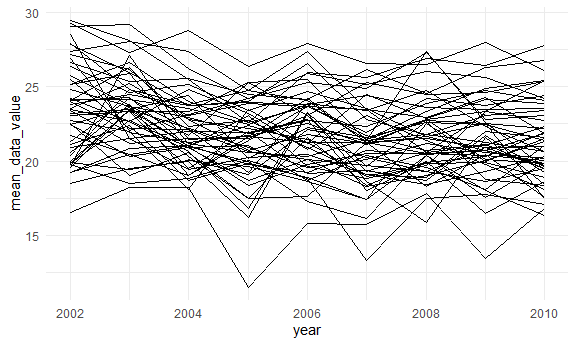
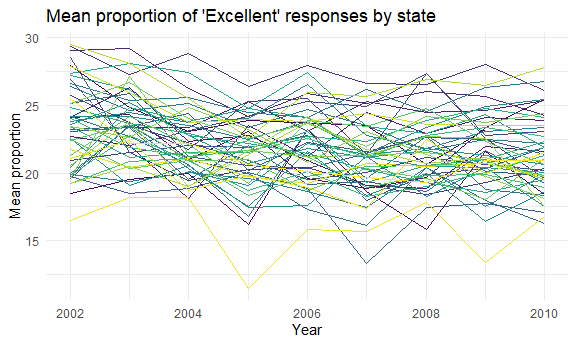
describing problem 2 data and results

diff --git a/p8105_hw3_sns2189.md b/p8105_hw3_sns2189.md
@@ -225,7 +225,7 @@ Lady Apples.
 
 ## Problem 2
 
-Cleaning data
+**Tidying the data:**
 
 ``` r
 brfss_smart2010_tidy <-
@@ -244,8 +244,8 @@ brfss_smart2010 %>%
   ) 
 ```
 
-In 2002, which states were observed at 7 or more locations? What about
-in 2010?
+**Showing which states were observed at 7 or more locations in 2002 and
+2010:**
 
 ``` r
 brfss_smart2010_tidy %>% 
@@ -253,18 +253,18 @@ brfss_smart2010_tidy %>%
   select(locationabbr, locationdesc) %>% 
   group_by(locationabbr) %>% 
   summarize(county_ct = n_distinct(locationdesc)) %>% 
-  filter(county_ct >= 7)
+  filter(county_ct >= 7) %>% 
+  knitr::kable(digits = 0)
 ```
 
-    ## # A tibble: 6 x 2
-    ##   locationabbr county_ct
-    ##   <chr>            <int>
-    ## 1 CT                   7
-    ## 2 FL                   7
-    ## 3 MA                   8
-    ## 4 NC                   7
-    ## 5 NJ                   8
-    ## 6 PA                  10
+| locationabbr | county\_ct |
+|:-------------|-----------:|
+| CT           |          7 |
+| FL           |          7 |
+| MA           |          8 |
+| NC           |          7 |
+| NJ           |          8 |
+| PA           |         10 |
 
 ``` r
 brfss_smart2010_tidy %>% 
@@ -272,48 +272,65 @@ brfss_smart2010_tidy %>%
   select(locationabbr, locationdesc) %>% 
   group_by(locationabbr) %>% 
   summarize(county_ct = n_distinct(locationdesc)) %>% 
-  filter(county_ct >= 7)
+  filter(county_ct >= 7) %>% 
+  knitr::kable(digits = 0)
 ```
 
-    ## # A tibble: 14 x 2
-    ##    locationabbr county_ct
-    ##    <chr>            <int>
-    ##  1 CA                  12
-    ##  2 CO                   7
-    ##  3 FL                  41
-    ##  4 MA                   9
-    ##  5 MD                  12
-    ##  6 NC                  12
-    ##  7 NE                  10
-    ##  8 NJ                  19
-    ##  9 NY                   9
-    ## 10 OH                   8
-    ## 11 PA                   7
-    ## 12 SC                   7
-    ## 13 TX                  16
-    ## 14 WA                  10
+| locationabbr | county\_ct |
+|:-------------|-----------:|
+| CA           |         12 |
+| CO           |          7 |
+| FL           |         41 |
+| MA           |          9 |
+| MD           |         12 |
+| NC           |         12 |
+| NE           |         10 |
+| NJ           |         19 |
+| NY           |          9 |
+| OH           |          8 |
+| PA           |          7 |
+| SC           |          7 |
+| TX           |         16 |
+| WA           |         10 |
 
-Construct a dataset that is limited to `Excellent` responses, and
-contains, year, state, and a variable that averages the `data_value`
-across locations within a state. Make a “spaghetti” plot of this average
-value over time within a state.
+We can see that 8 more states are observed at 7 or more locations in
+2010. This makes sense because as the years go on, and as there is more
+funding for research, increasing the sample would be important to the
+researchers. Also, as more people got their own telephones, it was
+probably easier to contact more participants in a variety of counties by
+2010. The mean number of counties included for each state also increases
+from 2002 to 2010.
+
+**Constructing a dataset and plot of mean `Excellent` responses in each
+state:**
 
 ``` r
 brfss_smart2010_tidy %>% 
   filter(response == "Excellent") %>% 
   group_by(year, locationabbr) %>% 
   summarize(mean_data_value = mean(data_value, na.rm = TRUE)) %>% 
-  ggplot(aes(x = year, y = mean_data_value, group = locationabbr)) +
-  geom_line()
+  ggplot(aes(x = year, y = mean_data_value, color = locationabbr)) +
+  geom_line() +
+  labs(
+    title = "Mean proportion of 'Excellent' responses by state",
+    x = "Year",
+    y = "Mean proportion"
+  ) +
+  theme(legend.position = "none")
 ```
 
     ## `summarise()` has grouped output by 'year'. You can override using the `.groups` argument.
 
 <img src="p8105_hw3_sns2189_files/figure-gfm/unnamed-chunk-9-1.png" width="90%" />
 
-Make a two-panel plot showing, for the years 2006 and 2010, distribution
-of `data_value` responses (“Poor” to “Excellent”) among locations in NY
-State.
+From this plot, it seems that there isn’t much of a general trend across
+states in terms of whether the number of “Excellent” responses go up and
+down. Instead we can look at specific lines towards the top or bottom of
+the plot to see which states are at the extremes. For example, the
+yellow line at the bottom represents West Virginia, while the purple
+line that contains the highest data point in 2004 is Washington, D.C.
+
+**Plotting distribution of responses in NY for 2006 and 2010:**
 
 ``` r
 plot_2006 <-
@@ -322,7 +339,15 @@ plot_2006 <-
   group_by(response) %>% 
   summarize(response_mean = mean(data_value)) %>% 
   ggplot(aes(x = response, y = response_mean)) +
-  geom_col()
+  geom_col() + 
+  labs(
+    title = "NY Distribution 2006",
+    x = "Response",
+    y = "Mean proportion of responses"
+  ) + 
+  theme(axis.text.x = element_text(angle = 90)) +
+  ylim(c(0,35))
+
 
 plot_2010 <-
   brfss_smart2010_tidy %>% 
@@ -330,12 +355,27 @@ plot_2010 <-
   group_by(response) %>% 
   summarize(response_mean = mean(data_value)) %>% 
   ggplot(aes(x = response, y = response_mean)) +
-  geom_col()
+  geom_col() + 
+  labs(
+    title = "NY Distribution 2010",
+    x = "Response",
+    y = "Mean proportion of responses"
+  ) + 
+  theme(axis.text.x = element_text(angle = 90)) +
+  ylim(c(0,35))
 
-plot_2006 + plot_2010
+plot_2006 + plot_2010 
 ```
 
 <img src="p8105_hw3_sns2189_files/figure-gfm/unnamed-chunk-10-1.png" width="90%" />
+
+These plots actually don’t look extremely different, but we can see
+clearly that there were a larger proportion of “Very good” responses in
+2010 when compared to 2006 in NY state. However, there are slightly more
+“Poor” responses too. It seems like people in 2010 were less likely to
+feel more neutral about their health with “Fair” and “Good” responses,
+and favored the slightly more extreme responses of “Poor” or “Very Good”
+when compared to respondents in 2006.
 
 ## Problem 3
 
